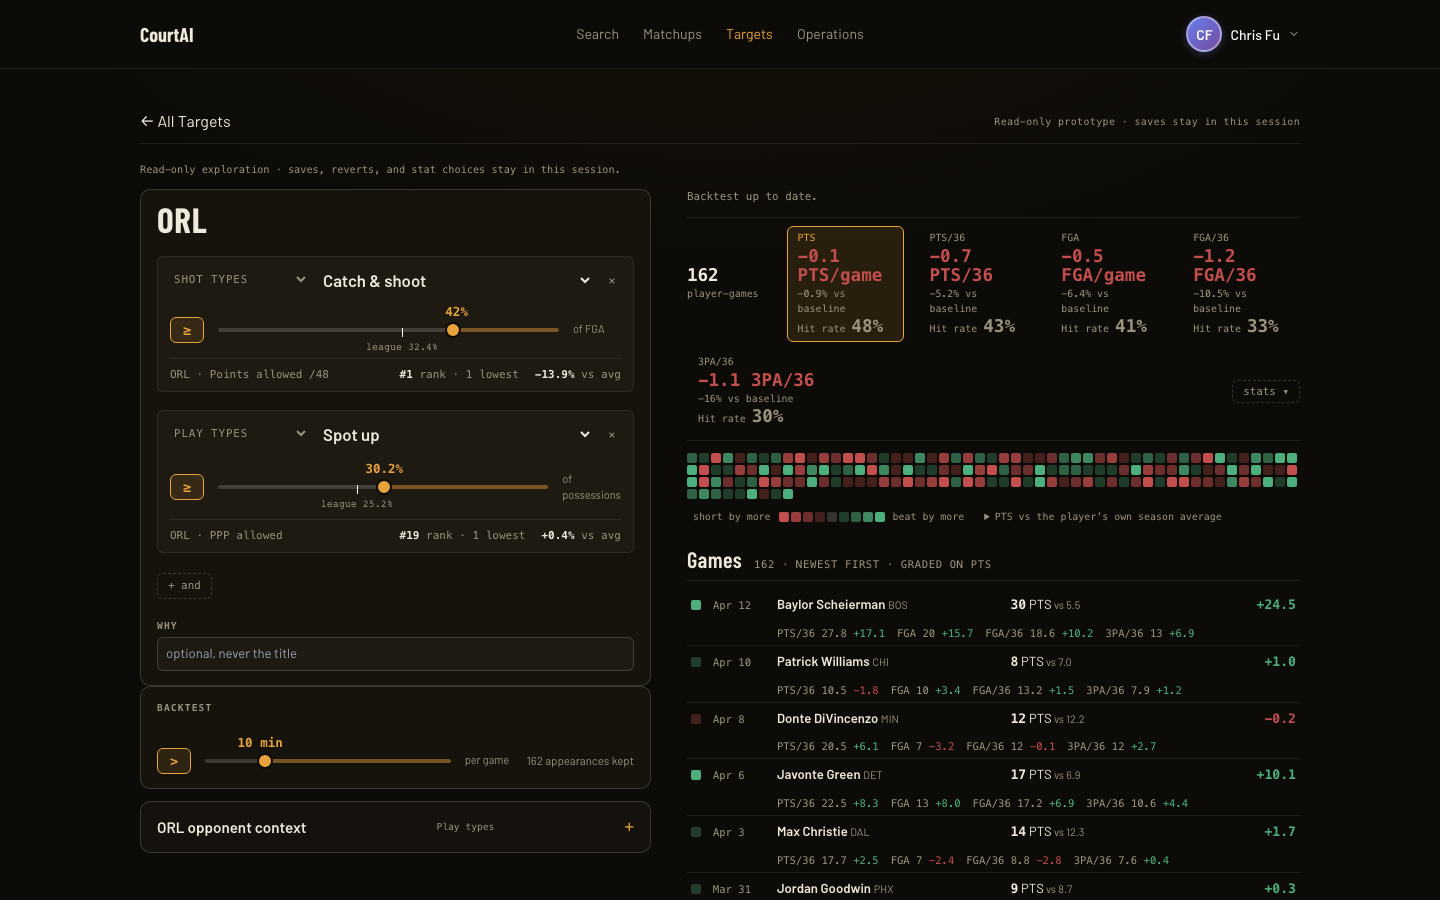
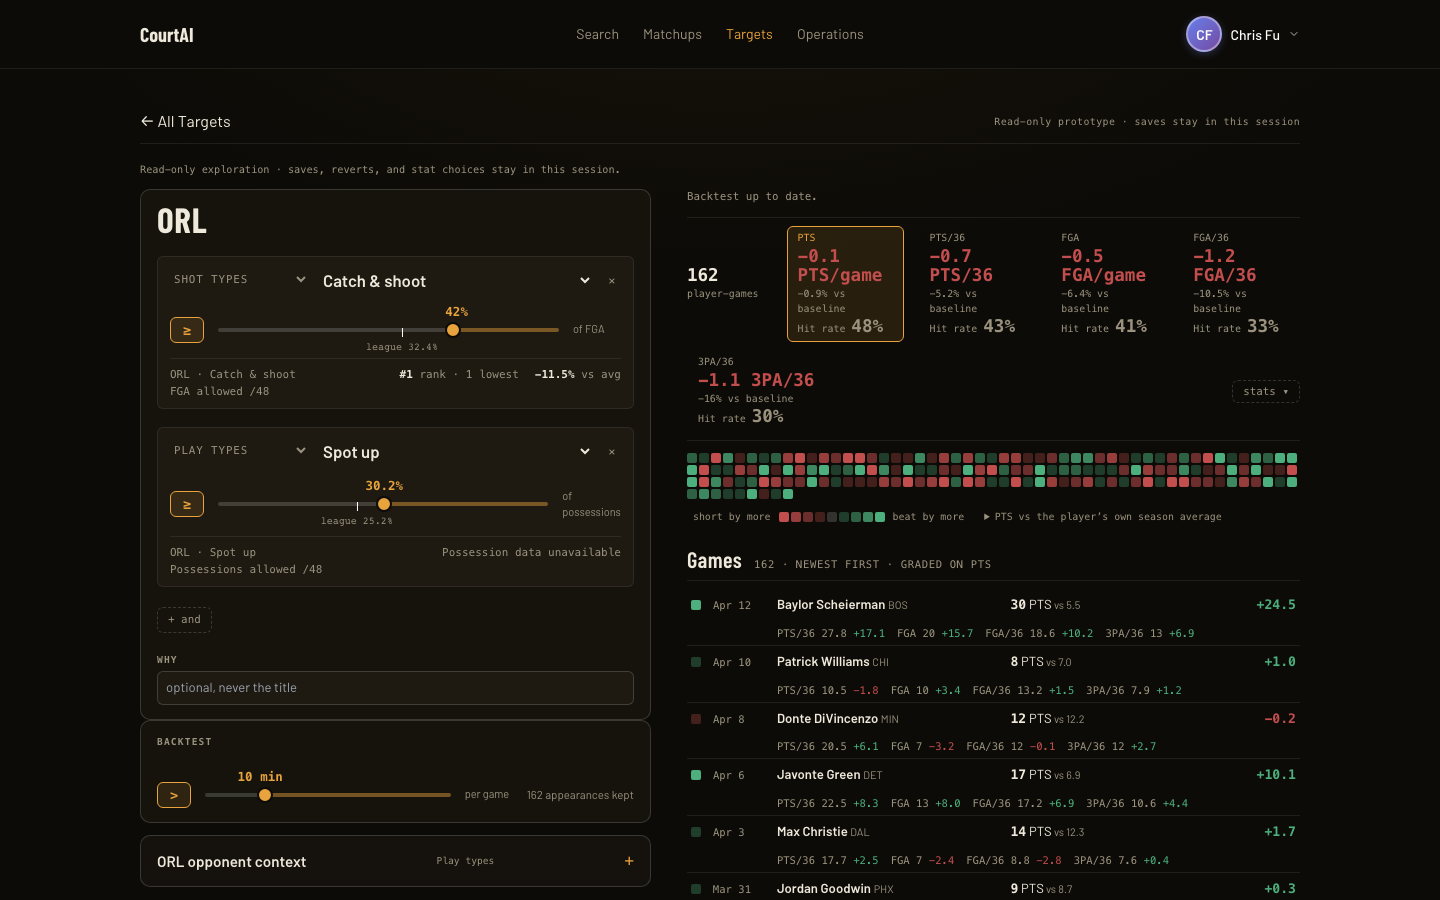
Map qualifier context to matching opponent volume

diff --git a/src/targets/TeamContextPrototype.js b/src/targets/TeamContextPrototype.js
@@ -9,6 +9,7 @@ import {
   formatQualifier,
   NBA_TEAM_TRICODES,
   TARGET_SLICES,
+  targetSliceLabel,
 } from './targetCatalog';
 import './TeamContextPrototype.css';
 
@@ -1017,52 +1018,99 @@ export default function TeamContextPrototype({
   );
 }
 
-// Inline evidence is read independently of the browsing panel's selected category.
-export function QualifierOpponentContext({ team, opponent, qualifier, teamsLoading }) {
+// Share whole-season profile reads across cards in this throwaway prototype.
+const opponentProfiles = new Map();
+const readOpponentProfile = (team, category) => {
+  const key = `${category}:${team}`;
+  if (!opponentProfiles.has(key)) {
+    opponentProfiles.set(
+      key,
+      apiClient
+        .get(getApiUrl('TEAM_STATS'), {
+          params: { team, category },
+        })
+        .then(({ data }) => parseStats(data))
+        .catch((error) => {
+          opponentProfiles.delete(key);
+          throw error;
+        }),
+    );
+  }
+  return opponentProfiles.get(key);
+};
+
+export const qualifierVolumeRow = (qualifier, profile, leagueProfiles) => {
+  const { base, sliceKey } = qualifier;
+  if (base === 'shot_types') {
+    // Rank summed attempts across teams; component ranks cannot be added or averaged.
+    const attempts = (rows) => {
+      const row = rows?.find((item) => item.ShootingType === sliceKey);
+      return Number.isFinite(row?.FG2A) && Number.isFinite(row?.FG3A) ? row.FG2A + row.FG3A : null;
+    };
+    const value = attempts(profile);
+    const values = leagueProfiles?.map(attempts);
+    if (value === null || values?.length !== 30 || values.some((item) => item === null))
+      return null;
+    const average = values.reduce((sum, item) => sum + item, 0) / values.length;
+    return {
+      value,
+      rank: 1 + values.filter((item) => item < value).length,
+      vsAverage: average > 0 ? (value / average - 1) * 100 : null,
+    };
+  }
+  const data = profile?.[0];
+  if (base === 'play_types') {
+    // The current profile endpoint publishes PPP only. Never substitute it for possessions.
+    return null;
+  }
+  const key = base === 'shot_zones' ? `${sliceKey}_OPP_FGA` : sliceKey;
+  if (!Number.isFinite(data?.[key])) return null;
+  return {
+    value: data[key],
+    rank: data[`${key}_RANK`],
+    vsAverage: base === 'assist_locations' ? (data[key] - 1) * 100 : data[`${key}_vs_avg_pct`],
+  };
+};
+
+// Inline evidence follows the player slice, independently of the browsing panel.
+export function QualifierOpponentContext({ team, teams, opponent, qualifier, teamsLoading }) {
   const category = {
     play_types: 'Playtypes',
     shot_zones: 'Zone Shooting',
     assist_locations: 'Assists',
     shot_types: 'Shooting Type',
   }[qualifier.base];
-  const [profile, setProfile] = useState(null);
+  const [profiles, setProfiles] = useState(null);
   const [failed, setFailed] = useState(false);
   useEffect(() => {
-    if (!team || !category) return undefined;
-    const controller = new AbortController();
-    setProfile(null);
+    if (!team || !category || category === 'Playtypes') return undefined;
+    let cancelled = false;
+    setProfiles(null);
     setFailed(false);
-    apiClient
-      .get(getApiUrl('TEAM_STATS'), {
-        params: { team, category },
-        signal: controller.signal,
+    const names = category === 'Shooting Type' ? teams : [team];
+    Promise.all(names.map((name) => readOpponentProfile(name, category)))
+      .then((data) => {
+        if (!cancelled) setProfiles({ profile: data[names.indexOf(team)], league: data });
       })
-      .then(({ data }) => setProfile(parseStats(data)))
-      .catch((error) => {
-        if (!isRequestCancelled(error)) setFailed(true);
+      .catch(() => {
+        if (!cancelled) setFailed(true);
       });
-    return () => controller.abort();
-  }, [team, category]);
-  const row =
-    category &&
-    statRowsFor(category, profile).find(
-      (item) =>
-        item.targetBase === qualifier.base &&
-        item.targetSlice === qualifier.sliceKey &&
-        (qualifier.base !== 'shot_types' || item.rawKey === 'PTS'),
-    );
+    return () => {
+      cancelled = true;
+    };
+  }, [team, teams, category]);
+  const row = qualifierVolumeRow(qualifier, profiles?.profile, profiles?.league);
   const metric =
     qualifier.base === 'play_types'
-      ? 'PPP allowed'
-      : qualifier.base === 'shot_types'
-        ? 'Points allowed /48'
-        : qualifier.base === 'shot_zones'
-          ? 'FGA allowed /48'
-          : 'Assists allowed';
+      ? 'Possessions allowed /48'
+      : qualifier.base === 'assist_locations'
+        ? 'Assists allowed'
+        : 'FGA allowed /48';
   return (
     <div className="target-qualifier-opponent" aria-label={`${opponent} opponent context`}>
       <span className="target-qualifier-opponent-label">
-        {opponent} · {metric}
+        {opponent} · {targetSliceLabel(qualifier.base, qualifier.sliceKey)}
+        <small className="target-qualifier-opponent-metric">{metric}</small>
       </span>
       {row ? (
         <>
@@ -1070,14 +1118,16 @@ export function QualifierOpponentContext({ team, opponent, qualifier, teamsLoadi
             <b>{Number.isFinite(row.rank) ? `#${Math.round(row.rank)}` : '—'}</b> rank · 1 lowest
           </span>
           <span>
-            <b>{formatLeagueComparison(category, row)}</b> vs avg
+            <b>{formatSignedPercent(row.vsAverage)}</b> vs avg
           </span>
         </>
       ) : (
         <span>
-          {failed || profile || (!team && !teamsLoading)
-            ? 'Context unavailable'
-            : 'Loading context…'}
+          {qualifier.base === 'play_types'
+            ? 'Possession data unavailable'
+            : failed || profiles || (!team && !teamsLoading)
+              ? 'Context unavailable'
+              : 'Loading context…'}
         </span>
       )}
     </div>

diff --git a/src/targets/TargetContextPrototype.js b/src/targets/TargetContextPrototype.js
@@ -177,6 +177,7 @@ function TargetContextLayouts({
           key={`${draft.opponent}:${qualifier.base}`}
           team={read.teams.find((team) => codeForTeam(team) === draft.opponent)}
           opponent={draft.opponent}
+          teams={read.teams}
           teamsLoading={read.teamsState === 'loading'}
           qualifier={qualifier}
         />

diff --git a/src/targets/TargetContextPrototype.css b/src/targets/TargetContextPrototype.css
@@ -428,3 +428,9 @@
     flex: 1 0 100%;
   }
 }
+
+.target-qualifier-opponent-metric {
+  display: block;
+  margin-top: 4px;
+  font: inherit;
+}

diff --git a/docs/prototypes/target-composer-context.md b/docs/prototypes/target-composer-context.md
@@ -74,3 +74,22 @@ Verified at frontend base `66b28ce` plus these changes in the prototype worktree
 Full completion gate passed: lint, formatting, 683 unit tests, production build, 107 browser tests (2 deployment-only skips). Both create variants were captured with live authenticated data at desktop and phone widths. Phone card footers keep rank and difference together beneath the metric label. QA services stopped after capture.
 
 Cross-vendor review confirmed the requested layout and qualifier mapping. Fixed unavailable-team loading, preserved category data when changing a slice, pinned shot-type evidence to PTS, and made rank direction visible. Duplicate category reads across cards remain a deliberate throwaway-prototype limitation; request sharing is deferred.
+
+## Match the player's volume stat to opponent volume
+
+User clarification (unedited): “the catch & shoot should use ORL catch and shoot against stats, map each player stat to the opponent stat” → “Attempts allowed, matching the player stat”.
+
+| Player qualifier           | Opponent comparison for the same slice       | Current source                                                                          |
+| -------------------------- | -------------------------------------------- | --------------------------------------------------------------------------------------- |
+| Shot type FGA share        | Two-point + three-point attempts allowed /48 | `Shooting Type`, matching `ShootingType`, sum `FG2A + FG3A`                             |
+| Shot zone FGA share        | Zone FGA allowed /48                         | `Zone Shooting`, matching zone `_OPP_FGA`                                               |
+| Assist location share      | Assists allowed in that location             | `Assists`, matching location's volume index and rank                                    |
+| Play type possession share | Possessions allowed in that play type        | Unavailable: current Team Stats API exposes PPP only; no efficiency rank is substituted |
+
+Shot-type ranking uses all 30 teams' summed attempts, with ascending competition rank and percentage difference from the mean of those totals. Never sums or averages component ranks, differences, or point totals. Missing components or incomplete league coverage make the comparison unavailable. Profile reads are shared in memory across cards. Each footer names the opponent and exact player slice.
+
+Verified at frontend `595bb54` plus this change. Authenticated live create A/B and edit captures at 1440×900 and 390×844 pass; left minutes control updates the actual preview transport, right results stay in place, no account writes or document overflow. Full owning gate passes: lint, formatting, 683 unit tests, build, 107 browser tests (2 deployment-only skips). QA services stopped. [Fresh attempts-mapping screenshot](target-composer-context/edit-opponent-attempts-mapping.png).
+
+Production Team Stats contract inspected at backend reference `81cefe05915b9f931eaa26937c7fae560551bc98` and confirmed against live responses. No API or backend changes made. Play-type volume remains an explicit data limitation of this prototype.
+
+Independent read of all 30 live shooting profiles confirmed ORL Catch & Shoot: 24.7745839637 FGA/48, league mean 28.0072707804, ascending rank 1, relative difference −11.5423128590%. Cross-vendor review confirmed mappings and math; no blocking findings. Complete 30-team coverage is intentional for a league rank, rather than ranking a partial sample. Opponent names come directly from the same team list after tricode matching. The prototype's shared whole-season reads remain fixed until page reload; they are not a production freshness mechanism. The named slice plus FGA label identifies the exact attempt population; the card intentionally displays rank/difference as requested, not another raw-value tile.
